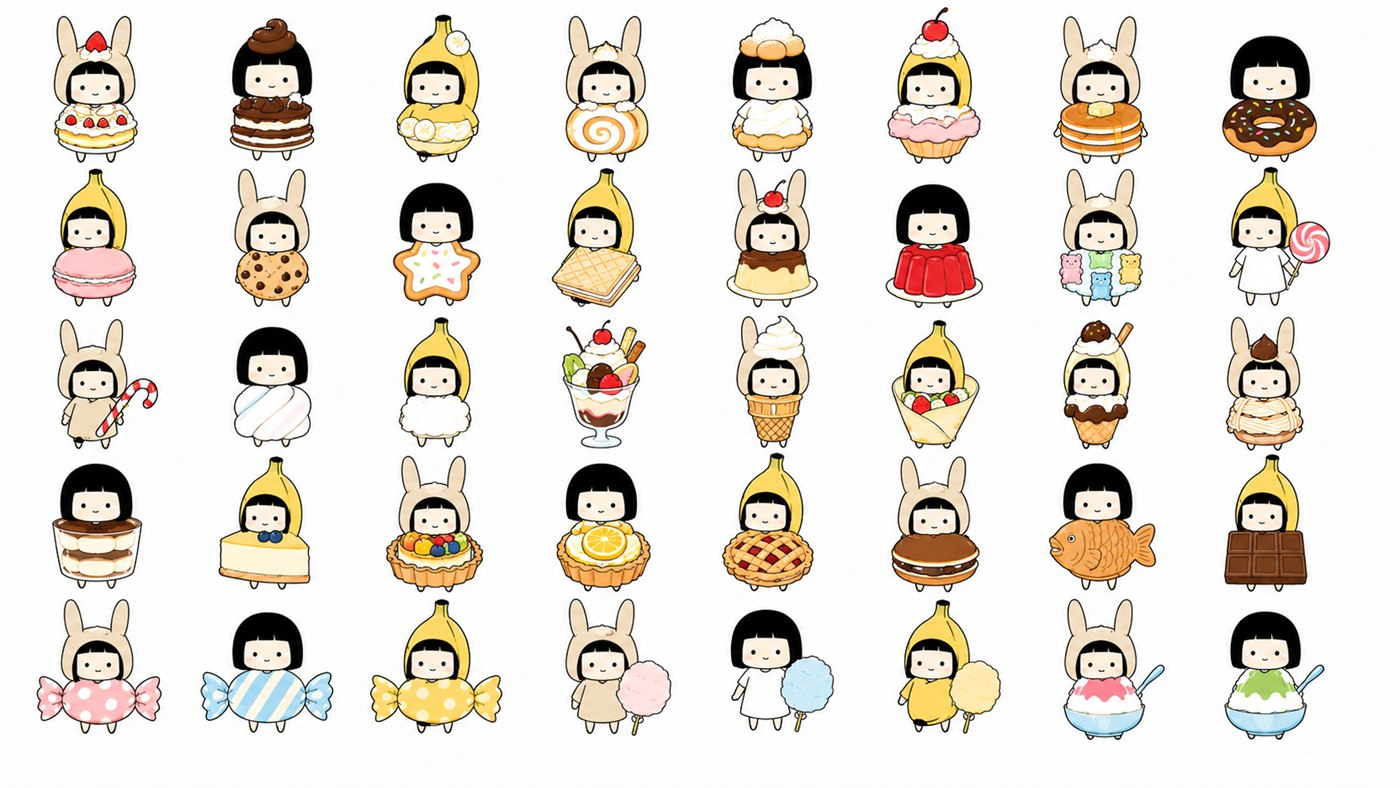
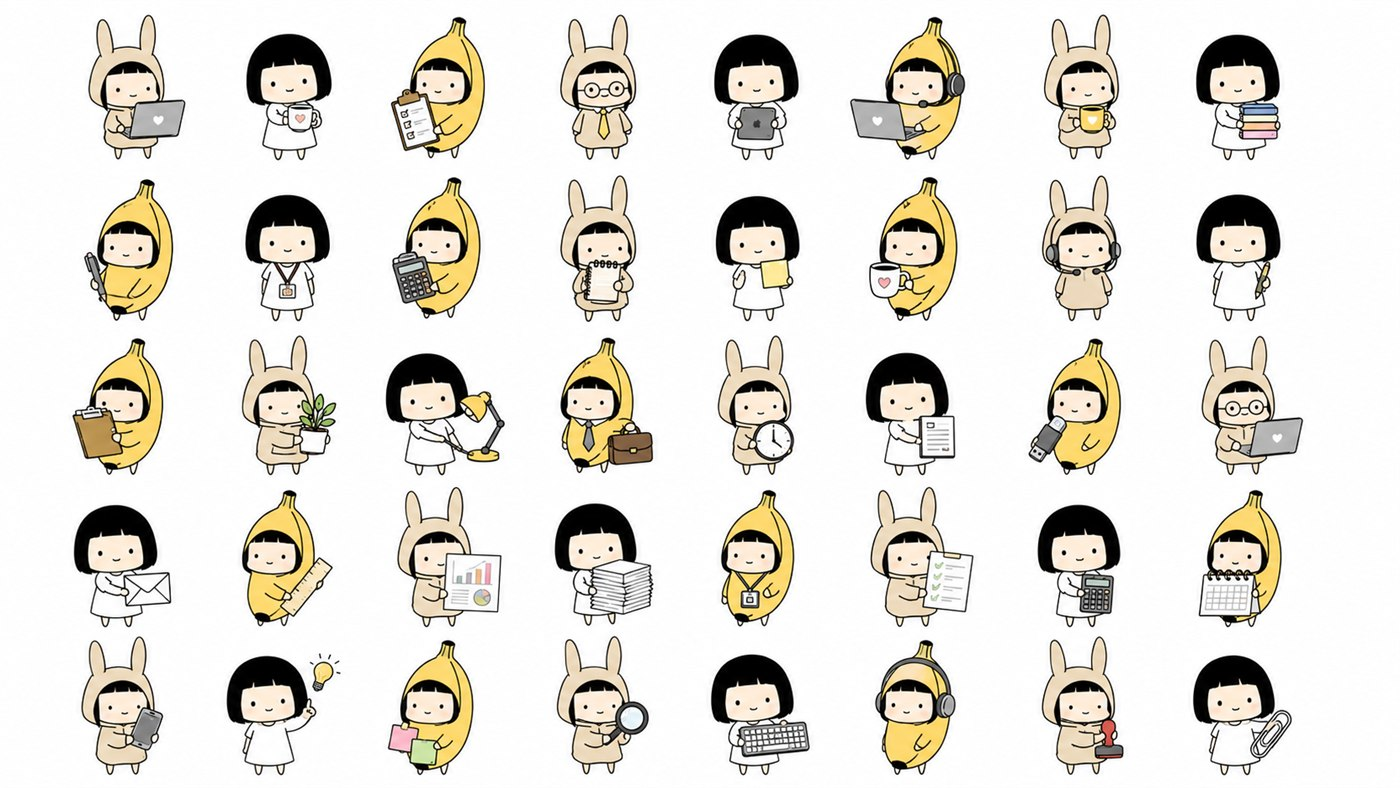
コスプレ40体シートの作例画像を仕事テーマに差し替え

diff --git a/data.js b/data.js
@@ -169,7 +169,7 @@ const PROMPTS = [
     title: "テーマ別コスプレ40体シート",
     category: "キャラ素材",
     tags: ["キャラクター", "バリエーション", "ステッカー", "素材づくり", "グリッド"],
-    emoji: "🍬",
+    emoji: "🗂",
     image: "images/p002.jpg",
     summary:
       "添付キャラをベースに、テーマに沿った衣装バリエーションを8列×5行＝40体まとめて出力。絵文字・スタンプ・アイコンの素材づくりに。",
